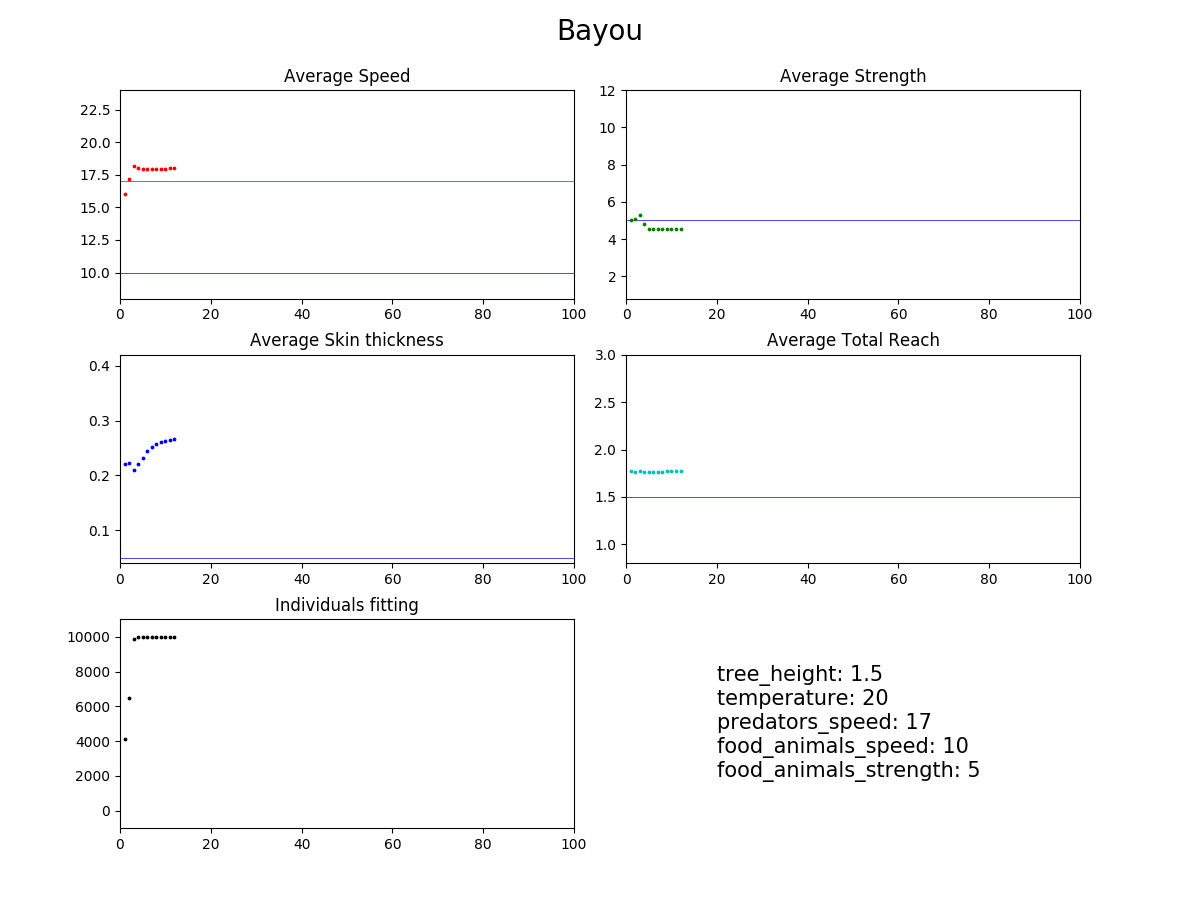
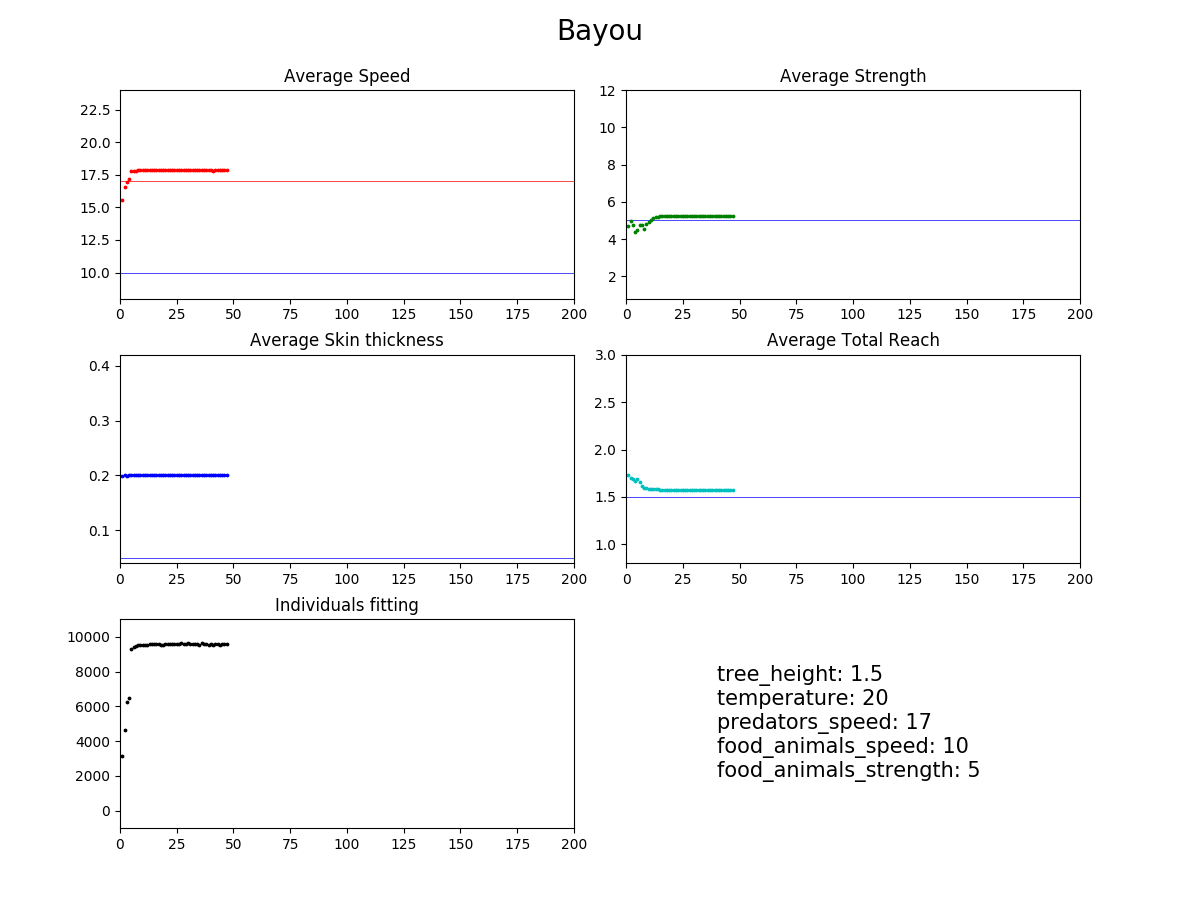
Added weight parameters. Normalized the first evaluation method to have values from 0 to 1.

diff --git a/src/natural_selection/filter.py b/src/natural_selection/filter.py
@@ -1,7 +1,7 @@
 import asyncio
 import logging
 
-from settings.settings import initial_population_size
+from settings.settings import initial_population_size, PARAMETERS_WEIGHTS
 
 
 def filter_individuals(current_population, environment):
@@ -65,10 +65,10 @@ async def evaluate_individual(current_population, individual_id, environment):
     """
     individual = current_population[individual_id]
     individual_value = value_function(individual, environment)
-    individual_value = individual_value * 0.5 if not check_enough_food(individual, environment) else individual_value
+    individual_value = individual_value * 0.5 if not is_food_accessible(individual, environment) else individual_value
     individual_value = check_too_good(individual, individual_value, environment)
-    individual_value = check_fast_enough(individual, individual_value, environment)
-    individual_value = check_warm_enough(individual, individual_value, environment)
+    individual_value = evaluate_fast_enough(individual, individual_value, environment)
+    individual_value = evaluate_warm_enough(individual, individual_value, environment)
     individual['value'] = individual_value
     return individual, individual_value
 
@@ -83,47 +83,15 @@ def value_function(individual, environment):
     :return: evaluation result
     :rtype: float
     """
-    temp_threshold = 0.05 + (abs(environment['temperature'] - 20) * (0.30 / 30))
+    skin_threshold = 0.05 + (abs(environment['temperature'] - 20) * (0.30 / 30))
+    total_reach = individual['height'] + individual['arm_length'] + individual['jump']
+
     total_value = 0
-    total_reach = individual['height'] + individual['arm_length'] + individual['jump']
-    total_value += 4 * total_reach / environment['tree_height']
-    total_value += individual['strength'] / environment['food_animals_strength']
-    total_value += individual['speed'] / environment['predators_speed']
-    total_value += individual['skin_thickness'] / temp_threshold
+    total_value += PARAMETERS_WEIGHTS['total_reach'] * min(total_reach / environment['tree_height'], 1)
+    total_value += PARAMETERS_WEIGHTS['strength'] * min(individual['strength'] / environment['food_animals_strength'], 1)
+    total_value += PARAMETERS_WEIGHTS['speed'] * min(individual['speed'] / environment['predators_speed'], 1)
+    total_value += PARAMETERS_WEIGHTS['skin_thickness'] * min(individual['skin_thickness'] / skin_threshold, 1)
     return total_value
-
-
-def check_enough_food(individual, environment):
-    """
-    This method checks if the individual will be able to obtain food in some way.
-    :param individual: current individual parameters
-    :type individual: dict
-    :param environment: the current parameters against which the individuals are being tested
-    :type environment: dict
-    :return: true if the individual has a way of finding food. false otherwise.
-    :rtype: bool
-    """
-    if (individual['total_reach'] < environment['tree_height']) or \
-        (individual['speed'] < environment['food_animals_speed'] and
-         individual['strength'] < environment['food_animals_strength']):
-        return False
-    return True
-
-
-def check_tall_enough(individual, environment):
-    """
-
-    :param individual: current individual parameters
-    :type individual: dict
-    :param environment: the current parameters against which the individuals are being tested
-    :type environment: dict
-    :return: true if the individual can arrive to tree's food. false otherwise.
-    :rtype: bool
-    """
-    total_reach = individual['height'] + individual['arm_length'] + individual['jump']
-    if total_reach < environment['tree_height']:
-        return False
-    return True
 
 
 def check_too_good(individual, total_value, environment):
@@ -139,27 +107,63 @@ def check_too_good(individual, total_value, environment):
     :return: new evaluation for the individual
     :rtype: float
     """
+    skin_threshold = 0.05 + (abs(environment['temperature'] - 20) * (0.30 / 30))
     ind_speed_vs_predator = individual['speed'] / environment['predators_speed']
     ind_speed_vs_food = individual['speed'] / environment['food_animals_speed']
     ind_strength_vs_food = individual['strength'] / environment['food_animals_strength']
-    temp_threshold = 0.05 + (abs(environment['temperature'] - 20) * (0.30 / 30))
+    ind_skin_vs_temp = individual['skin_thickness'] / skin_threshold
+    ind_reach_vs_trees = individual['total_reach'] / environment['tree_height']
 
-    if individual['total_reach'] / environment['tree_height'] > 1.1:
-        total_value = total_value * 0.7
+    if ind_reach_vs_trees > 1.1:
+        total_value = total_value * 0.5
 
-    if individual['skin_thickness'] / temp_threshold > 1.1:
-        total_value = total_value * 0.7
+    if ind_skin_vs_temp > 1.1:
+        total_value = total_value * 0.3
 
     if ind_strength_vs_food > 1.1:
-        total_value = total_value * 0.7
+        total_value = total_value * 0.5
 
     if ind_speed_vs_food > 1.1 and \
-       is_fast_enough(individual, environment):
-        total_value = total_value * 0.7
+       ind_speed_vs_predator >= 1.0:
+        total_value = total_value * 0.5
 
     if ind_speed_vs_predator > 1.1:
-        total_value = total_value * 0.7
+        total_value = total_value * 0.5
 
+    return total_value
+
+
+def evaluate_fast_enough(individual, total_value, environment):
+    """
+    Check if the individual's speed is high enough to scape from predators. Otherwise give a big penalization.
+    :param individual: current individual parameters
+    :type individual: dict
+    :param total_value: current evaluation for the individual
+    :type total_value: float
+    :param environment: the current parameters against which the individuals are being tested
+    :type environment: dict
+    :return: new evaluation for the individual
+    :rtype: float
+    """
+    if not is_fast_enough(individual, environment):
+        total_value = total_value * 0.2
+    return total_value
+
+
+def evaluate_warm_enough(individual, total_value, environment):
+    """
+    Check if the individual's skin is thick enough. Otherwise give a big penalization.
+    :param individual: current individual parameters
+    :type individual: dict
+    :param total_value: current evaluation for the individual
+    :type total_value: float
+    :param environment: the current parameters against which the individuals are being tested
+    :type environment: dict
+    :return: new evaluation for the individual
+    :rtype: float
+    """
+    if not is_warm_enough(individual, environment):
+        total_value = total_value * 0.2
     return total_value
 
 
@@ -178,7 +182,7 @@ def is_fast_enough(individual, environment):
     return True
 
 
-def check_strong_enough(individual, environment):
+def is_strong_enough(individual, environment):
     """
     This method checks if the individual can kill for food
     :param individual: current individual parameters
@@ -191,25 +195,6 @@ def check_strong_enough(individual, environment):
     if individual['strength'] <= environment['food_animals_strength']:
         return False
     return True
-
-
-def check_fast_enough(individual, total_value, environment):
-    """
-    Check if the individual's speed is high enough to scape from predators. Otherwise give a big penalization.
-    :param individual: current individual parameters
-    :type individual: dict
-    :param total_value: current evaluation for the individual
-    :type total_value: float
-    :param environment: the current parameters against which the individuals are being tested
-    :type environment: dict
-    :return: new evaluation for the individual
-    :rtype: float
-    """
-    if not is_fast_enough(individual, environment):
-        total_value = total_value * 0.1
-    else:
-        total_value = total_value * 2
-    return total_value
 
 
 def is_warm_enough(individual, environment):
@@ -228,23 +213,37 @@ def is_warm_enough(individual, environment):
     return True
 
 
-def check_warm_enough(individual, total_value, environment):
+def is_food_accessible(individual, environment):
     """
-    Check if the individual's skin is thick enough. Otherwise give a big penalization.
+    This method checks if the individual will be able to obtain food in some way.
     :param individual: current individual parameters
     :type individual: dict
-    :param total_value: current evaluation for the individual
-    :type total_value: float
     :param environment: the current parameters against which the individuals are being tested
     :type environment: dict
-    :return: new evaluation for the individual
-    :rtype: float
+    :return: true if the individual has a way of finding food. false otherwise.
+    :rtype: bool
     """
-    if not is_warm_enough(individual, environment):
-        total_value = total_value * 0.1
-    else:
-        total_value = total_value * 1.5
-    return total_value
+    if (individual['total_reach'] < environment['tree_height']) or \
+        (individual['speed'] <= environment['food_animals_speed'] and
+         individual['strength'] <= environment['food_animals_strength']):
+        return False
+    return True
+
+
+def is_tall_enough(individual, environment):
+    """
+    This method checks if the individual can reach the food from the trees.
+    :param individual: current individual parameters
+    :type individual: dict
+    :param environment: the current parameters against which the individuals are being tested
+    :type environment: dict
+    :return: true if the individual can arrive to tree's food. false otherwise.
+    :rtype: bool
+    """
+    total_reach = individual['height'] + individual['arm_length'] + individual['jump']
+    if total_reach < environment['tree_height']:
+        return False
+    return True
 
 
 def natural_death(iteration, current_population):

diff --git a/src/tools/plot.py b/src/tools/plot.py
@@ -1,7 +1,7 @@
 import logging
 import matplotlib.pyplot as plt
 
-from settings.settings import INDIVIDUALS_PARAMS as LIMITS, initial_population_size, max_iterations
+from settings.settings import INDIVIDUALS_PARAMS as LIMITS, initial_population_size
 
 
 class PlotWrapper:
@@ -10,42 +10,44 @@ class PlotWrapper:
         self.fig = self.fig
         self.ax1 = self.fig.add_subplot(3, 2, 1)
         self.ax1.set_title('Average Speed')
-        self.ax1.set_xlim(0, max_iterations)
         self.ax1.set_ylim([LIMITS['speed'][0] * 0.8, LIMITS['speed'][1] * 1.2])
         self.ax2 = self.fig.add_subplot(3, 2, 2)
         self.ax2.set_title('Average Strength')
-        self.ax2.set_xlim(0, max_iterations)
         self.ax2.set_ylim([LIMITS['strength'][0] * 0.8, LIMITS['strength'][1] * 1.2])
         self.ax3 = self.fig.add_subplot(3, 2, 3)
         self.ax3.set_title('Average Skin thickness')
-        self.ax3.set_xlim(0, max_iterations)
         self.ax3.set_ylim([LIMITS['skin_thickness'][0] * 0.8, LIMITS['skin_thickness'][1] * 1.2])
         self.ax4 = self.fig.add_subplot(3, 2, 4)
         self.ax4.set_title('Average Total Reach')
-        self.ax4.set_xlim(0, max_iterations)
         self.ax4.set_ylim([1*0.8, 2.5*1.2])
         self.ax5 = self.fig.add_subplot(3, 2, 5)
         self.ax5.set_title('Individuals fitting')
-        self.ax5.set_xlim(0, max_iterations)
         self.ax5.set_ylim([(initial_population_size * 0.9) - initial_population_size, initial_population_size*1.1])
         self.ax6 = self.fig.add_subplot(3, 2, 6)
         plt.xlabel("Iterations")
         plt.tight_layout()
         plt.gcf().subplots_adjust(bottom=0.08, right=0.9, left=0.1, top=0.9)
 
-    def add_limits(self, environment):
+    def add_limits(self, environment, maximum_iterations):
         """
         This method is used to add some horizontal axis's to the plots to understand better if the results
         make sens.
         :param environment: the current parameters against which the individuals are being tested
         :type environment: dict
+        :param maximum_iterations: max iterations to be used as limit for X Axis
+        :type maximum_iterations: int
         """
         temp_threshold = 0.05 + (abs(environment['temperature'] - 20) * (0.30 / 30))
         self.ax1.axhline(y=environment['predators_speed'], c="red", linewidth=0.5, zorder=0)
         self.ax1.axhline(y=environment['food_animals_speed'], c="blue", linewidth=0.5, zorder=0)
+        self.ax1.set_xlim(0, maximum_iterations)
         self.ax2.axhline(y=environment['food_animals_strength'], c="blue", linewidth=0.5, zorder=0)
+        self.ax2.set_xlim(0, maximum_iterations)
         self.ax3.axhline(y=temp_threshold, c="blue", linewidth=0.5, zorder=0)
+        self.ax3.set_xlim(0, maximum_iterations)
         self.ax4.axhline(y=environment['tree_height'], c="blue", linewidth=0.5, zorder=0)
+        self.ax4.set_xlim(0, maximum_iterations)
+        self.ax5.set_xlim(0, maximum_iterations)
 
         environment_params = '\n'.join(['{}: {}'.format(key, value) for key, value in environment.items()])
         self.ax6.text(0.2, 0.5, environment_params, horizontalalignment='left', verticalalignment='center', size=15)

diff --git a/GeneticAlgorithm.py b/GeneticAlgorithm.py
@@ -79,11 +79,11 @@ def execute_genetic_algorithm(maximum_iterations, environment_name, environment_
     """
     logging.info(20 * "#" + " NEW EXECUTION " + 20 * "#" + "\n" +
                  33*"#" + " Executing with the following parameters:\n" +
-                 33*"#" + " Environment name: {}\n" + 33*"#" + " -".format(environment_name) +
+                 33*"#" + " Environment name: {}\n".format(environment_name) + 33*"#" + " -" +
                  "\n################################# -".join(
                      ['{}: {}'.format(key, value) for key, value in environment_params.items()])
                  )
-    my_plot.add_limits(environment_params)
+    my_plot.add_limits(environment_params, maximum_iterations)
     logging.info("*** Population stage ***")
     initial_population = create_individuals(environment_name)
     logging.info("*** Iteration stage ***")

diff --git a/src/tools/analyze.py b/src/tools/analyze.py
@@ -57,10 +57,10 @@ class PopulationAnalysis:
         otherwise
         :rtype: boolean
         """
-        if self.averages['fitting'] == initial_population_size:
+        if self.averages['fitting'] >= int(initial_population_size * 0.9):
             total_dif = 0
             for key, val in self.averages.items():
                 total_dif += abs(val - prev_analysis.averages[key])
-            if total_dif < 0.25:
+            if total_dif < 0.35:
                 return True
         return False

diff --git a/settings/settings.py b/settings/settings.py
@@ -1,6 +1,6 @@
-max_iterations = 100
+max_iterations = 200
 initial_population_size = 10000
-mutation_factor = 0.02
+mutation_factor = 0.05
 
 INDIVIDUALS_PARAMS = {
     'height': [1, 1.5],
@@ -48,4 +48,11 @@ ENVIRONMENT_DEFAULT = {
     'predators_speed': 10.0,
     'food_animals_speed': 10.0,
     'food_animals_strength': 1.0
+}
+
+PARAMETERS_WEIGHTS = {
+    'speed': 0.225,
+    'strength': 0.225,
+    'total_reach': 0.5,
+    'skin_thickness': 0.05
 }
